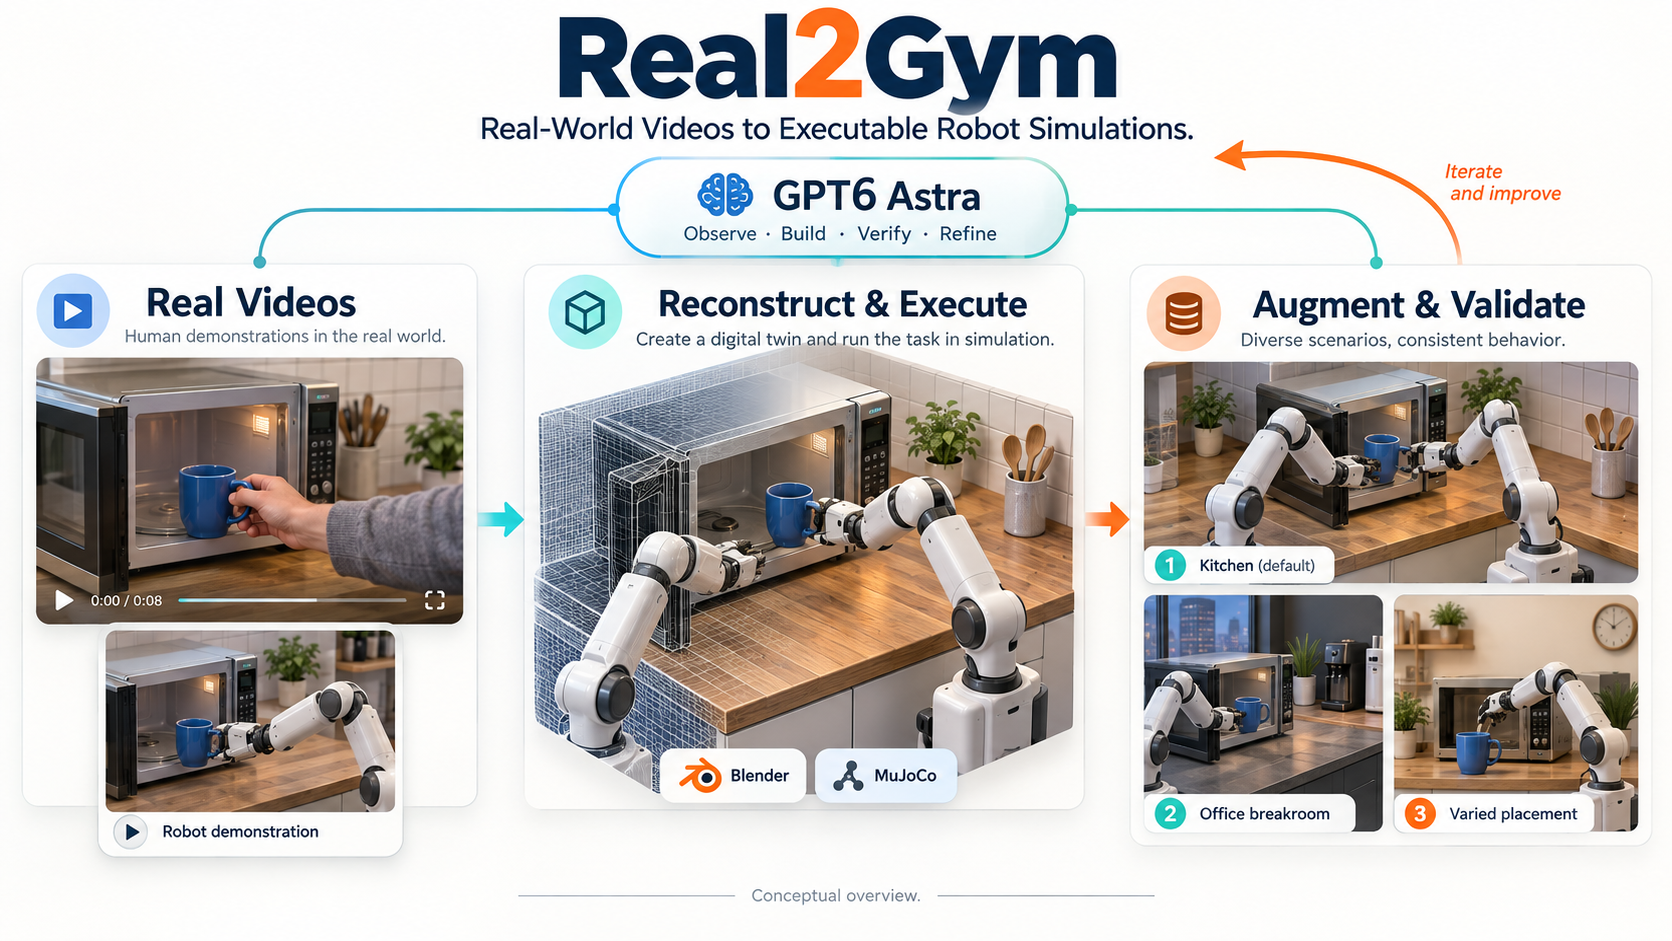
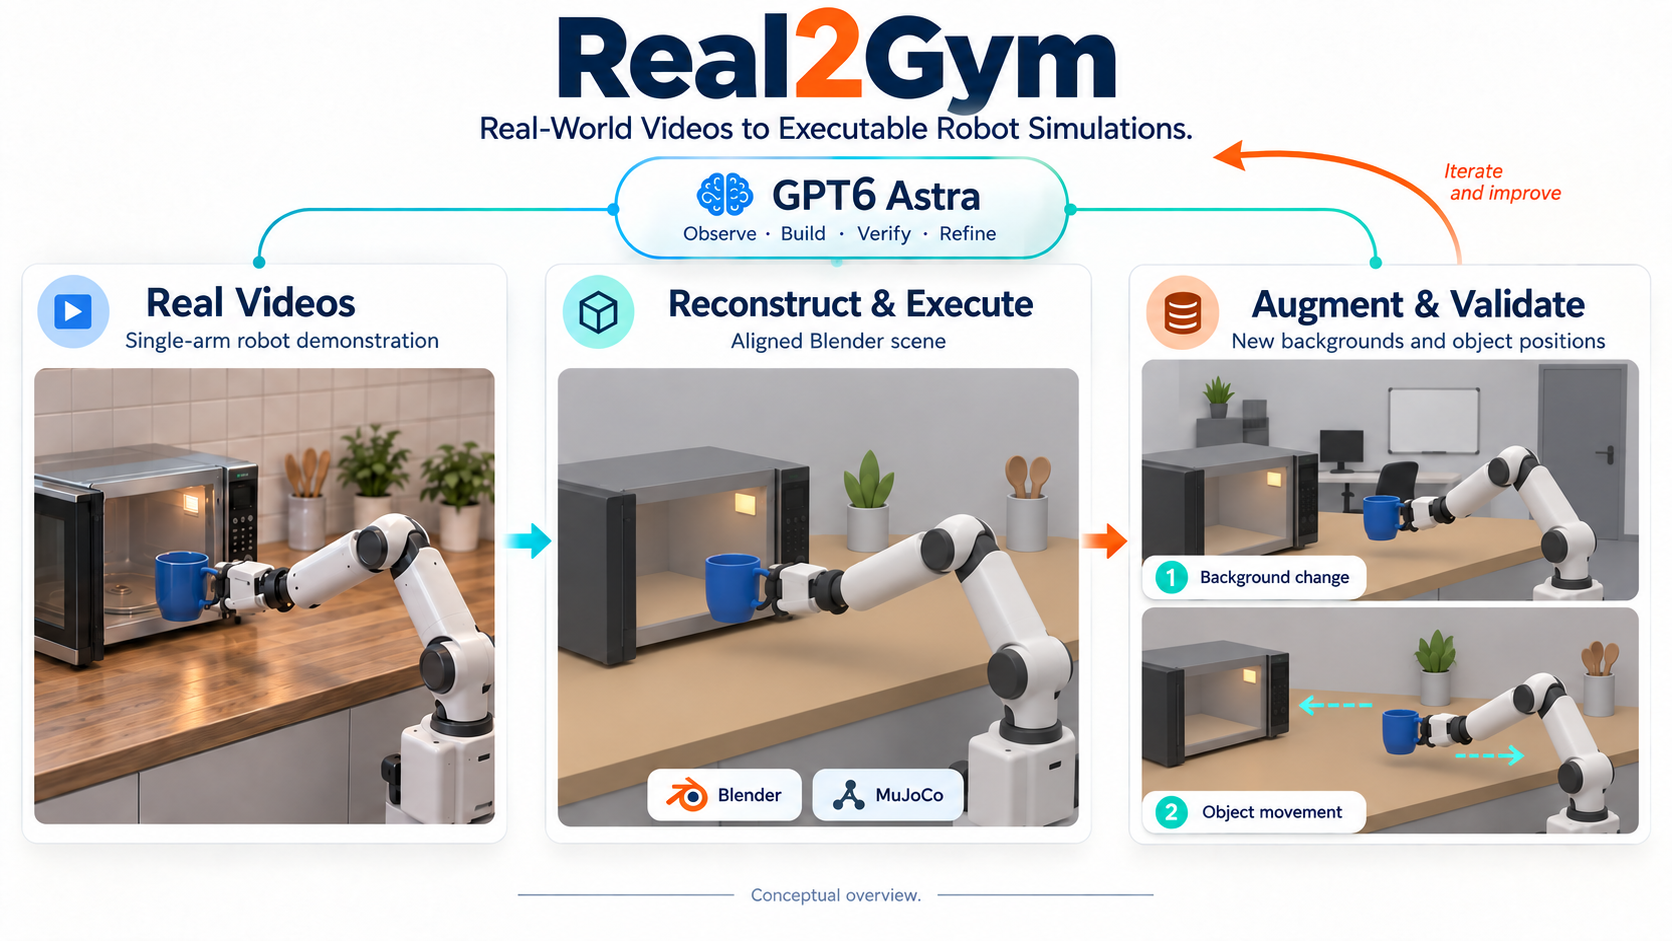
Align hero illustration to single-arm input and simplified simulation

diff --git a/assets/README.md b/assets/README.md
@@ -6,6 +6,7 @@ Generated with the built-in image tool after user authorization. The tool does n
 
 - [Design brief](hero-prompt.txt)
 - [Exact generation prompt](hero-generation-prompt.txt)
+- [Revision prompts: single-arm alignment and simplified simulation appearance](hero-revision-prompts.json)
 - [Generation and review record](hero-generation.json)
 
 This is conceptual AI-generated artwork, not a real input video, a simulator render or benchmark evidence. Depicted robots, tool marks and environments are illustrative; no endorsement is implied. The three illustration panels summarize the framework rather than replacing its detailed three-step workflow.

diff --git a/docs/README.zh-CN.md b/docs/README.zh-CN.md
@@ -4,7 +4,7 @@
 
 ![Real2Gym 框架介绍](../assets/real2gym-overview.png)
 
-*AI 生成的概念介绍图，不作为实验结果证据。*
+*AI 生成的概念介绍图：单机械臂示范、对应视角的简化 Blender 场景，以及背景替换和物体移动增强；不作为实验结果证据。*
 
 Real2Gym 将真实机器人或人手操作视频重建为 Blender 场景，在 MuJoCo 中恢复并验证交互动作，再生成有物理执行证据的增强环境。GPT6 Astra 负责观察、编写与修改场景/控制代码、调用工具、复核反馈；Blender 和 MuJoCo 分别提供视觉与原生物理证据。
 

diff --git a/README.md b/README.md
@@ -4,7 +4,7 @@
 
 ![Real2Gym overview: GPT6 Astra coordinates real-video reconstruction, robot simulation execution and scene augmentation](assets/real2gym-overview.png)
 
-*AI-generated conceptual overview; not experimental screenshots. [Artwork provenance](assets/README.md).*
+*AI-generated conceptual overview: a single-arm demonstration, a corresponding simplified Blender scene, and background/placement variants; not experimental screenshots. [Artwork provenance](assets/README.md).*
 
 **Reconstruct the scene. Reproduce the interaction. Build a family of validated simulations.**
 
